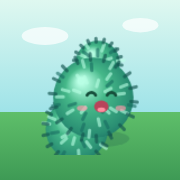
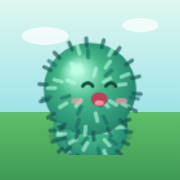
Add files via upload

Changed region(s): [[0.1944, 0.1944, 0.8056, 0.8611]]

diff --git a/index.html b/index.html
@@ -70,9 +70,17 @@ html,body{-webkit-user-select:none;user-select:none;-webkit-touch-callout:none;-
 .cbest{font-size:11.5px;color:var(--sub)}
 
 /* play */
-#s-play .bar{margin-bottom:6px}
-#p-name{font-size:18px}
-#stage .nc-body{padding:0}
+#s-play:not([hidden]){position:fixed;inset:0;z-index:20;display:flex;flex-direction:column;background:#173A3A;padding:env(safe-area-inset-top) env(safe-area-inset-right) 0 env(safe-area-inset-left)}
+#s-play .bar{display:none}
+#stage{flex:1;min-height:0;display:flex;flex-direction:column;background:#173A3A}
+#stage>*{flex:1;min-height:0;display:flex;flex-direction:column;background:transparent}
+#stage .nc-body{flex:1;min-height:0;width:100%;max-width:none;padding:0;gap:0}
+#stage .nc-view{flex:1;min-height:0;display:flex;align-items:center;justify-content:center;border:0;border-radius:0;box-shadow:none;background:#173A3A}
+#stage .nc-cv{flex:none;max-width:100%;max-height:100%}
+#stage .nc-keys{flex:none;max-width:none;margin:0;padding:12px max(14px,env(safe-area-inset-right)) calc(12px + env(safe-area-inset-bottom)) max(14px,env(safe-area-inset-left));background:#21504a}
+#stage .nc-keys>div{display:flex;gap:12px;align-items:center}
+#stage .nc-keys .nc-mini{min-width:76px;min-height:68px;font-size:26px}
+#stage .nc-keys .nc-jump{min-width:120px;font-size:20px}
 .result{position:fixed;inset:0;background:rgba(12,40,40,.55);display:grid;place-items:center;padding:16px;z-index:50}
 .result[hidden]{display:none}
 .rcard{background:#fff;border-radius:24px;padding:22px;width:min(100%,460px);max-height:92vh;overflow:auto;text-align:center;box-shadow:0 20px 50px #0b2f2a55}
@@ -155,14 +163,13 @@ html,body{-webkit-user-select:none;user-select:none;-webkit-touch-callout:none;-
           <span class="chip">💧 しずく貯金 <b id="t-bank"></b></span>
           <span class="chip">★ <b id="t-stars"></b></span>
           <span class="chip">🌈 図鑑 <b id="t-dex"></b></span>
-          <button type="button" class="chip" id="b-snd" style="border:0;cursor:pointer"></button>
         </div>
       </div>
       <div id="t-hero"></div>
     </div>
     <div class="menu">
       <button type="button" class="go" id="b-play"><b>ぼうけんへ</b><span>5つのワールド・50コース</span></button>
-      <button type="button" id="b-dex"><b>虹まりも図鑑</b><span>変身した虹まりもが棚に並ぶ</span></button>
+      <button type="button" id="b-dex"><b>図鑑</b><span>虹まりもと敵キャラが棚に並ぶ</span></button>
       <button type="button" id="b-shop"><b>ごほうび屋</b><span>しずくで色や強化と交換</span></button>
     </div>
   </section>
@@ -236,6 +243,11 @@ var APP_CSS = `
 .nc-edit .nc-cv{max-width:none}
 .nc-ov{position:absolute;inset:0;display:flex;flex-direction:column;align-items:center;justify-content:center;gap:8px;text-align:center;padding:16px;background:linear-gradient(180deg,#0c3b3b45,#092d345e);color:#fff}
 .nc-ov[hidden]{display:none}
+.nc-pz{position:absolute;top:10px;right:10px;z-index:3;width:44px;height:44px;border:0;border-radius:50%;background:rgba(255,255,255,.82);color:#24694e;font-weight:900;font-size:16px;box-shadow:0 3px 0 #0002;touch-action:none}
+.nc-pzp{position:absolute;inset:0;z-index:4;display:grid;place-items:center;background:rgba(10,40,40,.55)}
+.nc-pzp[hidden]{display:none}
+.nc-pzin{display:flex;flex-direction:column;gap:10px;background:#fff;border-radius:20px;padding:18px 22px;min-width:220px;text-align:center;box-shadow:0 14px 30px #0004}
+.nc-pzin b{font-size:20px;color:#1b6349}
 .nc-ov h2{font-size:clamp(22px,5.5vw,40px);line-height:1.2;margin:0;text-shadow:0 3px 10px #073b35}
 .nc-ov p{max-width:460px;margin:0 0 8px;font-weight:600;line-height:1.65;text-shadow:0 2px 5px #073b35}
 .nc-btn{font:inherit;font-weight:750;font-size:18px;background:var(--a);color:var(--on);border:0;border-radius:13px;padding:12px 28px;cursor:pointer;box-shadow:0 4px 0 rgba(0,0,0,.28)}
@@ -264,8 +276,8 @@ function game(cfg, root, opts){
   if(cfg.name&&!opts.bare&&!edit){var tt=h('div','nc-title'),tw=h('div',null,cfg.name);tt.appendChild(h('i','nc-mark'));tw.appendChild(h('small',null,'まりもメーカーで作ったコース'));tt.appendChild(tw);root.appendChild(tt)}
   var body=h('div','nc-body');root.appendChild(body);
   var S=Math.min(2,window.devicePixelRatio||1),T=Math.round(32*S),u=T/32;
-  var VW=edit?W:Math.min(W,Math.max(9,Math.min(20,Math.round((body.clientWidth||384)/42))));
-  var VH=opts.app?Math.min(H,12):H,BO=opts.boost||{},SKIN=opts.skin||null;
+  var VW=edit?W:opts.app?Math.min(W,Math.max(9,Math.min(20,Math.round((window.innerWidth||390)/Math.max(200,(window.innerHeight||700)-100)*12)))):Math.min(W,Math.max(9,Math.min(20,Math.round((body.clientWidth||384)/42))));
+  var VH=opts.app?Math.min(H,Math.max(12,Math.round(VW*Math.max(200,(window.innerHeight||700)-100)/(window.innerWidth||390)))):H,BO=opts.boost||{},SKIN=opts.skin||null;
 
   /* HUD */
   var hud=h('div','nc-hud');
@@ -304,6 +316,15 @@ function game(cfg, root, opts){
   var ov=h('div','nc-ov'),ovT=h('h2'),ovP=h('p'),ovB=h('button','nc-btn','冒険スタート');ovB.type='button';
   ov.appendChild(ovT);ov.appendChild(ovP);ov.appendChild(ovB);
   view.appendChild(cv);if(!edit)view.appendChild(ov);
+  var pzB=null,pzP=null,paused=false;
+  if(opts.app){pzB=h('button','nc-pz','Ⅱ');pzB.type='button';pzB.setAttribute('aria-label','ポーズ');view.appendChild(pzB);
+    pzP=h('div','nc-pzp');pzP.hidden=true;var pzIn=h('div','nc-pzin');pzIn.appendChild(h('b',null,'ポーズ'));
+    [['つづける',function(){resume()}],['やりなおす',function(){pzP.hidden=true;paused=false;go()}],['コースをえらぶ',function(){pzP.hidden=true;paused=false;if(opts.onQuit)opts.onQuit()}]].forEach(function(q){var b=h('button','nc-btn',q[0]);b.type='button';b.onclick=q[1];pzIn.appendChild(b)});
+    pzP.appendChild(pzIn);view.appendChild(pzP);
+    pzB.onpointerdown=function(e){e.preventDefault();e.stopPropagation();if(state!=='play')return;paused=true;state='pause';L=R=J=false;pzP.hidden=false}}
+  function resume(){if(!paused)return;paused=false;pzP.hidden=true;state='play';last=performance.now();acc=0;requestAnimationFrame(frame);nextT=0;bgmPump()}
+  function fitView(){if(!opts.app||!alive)return;var aw=view.clientWidth,ah=view.clientHeight;if(!aw||!ah)return;var k=Math.min(aw/cv.width,ah/cv.height);cv.style.width=Math.floor(cv.width*k)+'px';cv.style.height=Math.floor(cv.height*k)+'px'}
+  if(opts.app){window.addEventListener('resize',fitView);requestAnimationFrame(function(){fitView();requestAnimationFrame(fitView)})}
 
   var kamiT=0,kamiOn=false,bossIntro=0,camY=0,shots=[],goals=[],hs=null,hurtT=0,tf=null,frz=null,tstop=0,balls=[],stars=[],mg=[],trail=[],shake=0;
   var grid,pl,st0,en,fx,sp,score,lives,coins,coinsAll,left,sec,miss,state,hasGoal,cam,inv,flash,tacc,acc,last,pj,hudS='',best=0,el=0;
@@ -337,8 +358,8 @@ function game(cfg, root, opts){
   function cue(n){var c=CUES[n],d=0;c[1].forEach(function(nt){tone(nt[0],nt[1]+.03,c[0],.07,d);d+=nt[1]})}
   function fanfare(){var d=0;GOAL.forEach(function(nt){tone(nt[0],nt[1]+.05,'sine',.07,d);tone(nt[0]*.75,nt[1]+.05,'triangle',.04,d);d+=nt[1]})}
   var mute=false,AC=null,bgT=0,bi=0,MEL=[523.25,659.25,783.99,659.25,587.33,659.25,523.25,392,440,523.25,659.25,523.25,440,392,329.63,392];
-  try{mute=localStorage.getItem('marimo-mute')==='1'}catch(e){}
-  function aud(){if(edit)return;try{if(navigator.audioSession)navigator.audioSession.type='playback'}catch(e){}try{AC=window.__mmAC||(window.__mmAC=new(window.AudioContext||window.webkitAudioContext)());if(AC.state==='suspended')AC.resume()}catch(e){AC=null}}
+  if(!opts.app)try{mute=localStorage.getItem('marimo-mute')==='1'}catch(e){}
+  function aud(){if(edit)return;try{if(navigator.audioSession)navigator.audioSession.type='ambient'}catch(e){}try{AC=window.__mmAC||(window.__mmAC=new(window.AudioContext||window.webkitAudioContext)());if(AC.state==='suspended')AC.resume()}catch(e){AC=null}}
   function tone(f,d,w,v,dl){if(mute||!AC||!alive)return;try{var t0=AC.currentTime+(dl||0),o=AC.createOscillator(),g=AC.createGain();o.type=w||'sine';o.frequency.value=f;
     g.gain.setValueAtTime(.0001,t0);g.gain.exponentialRampToValueAtTime(v||.07,t0+.02);g.gain.exponentialRampToValueAtTime(.0001,t0+d);o.connect(g);g.connect(AC.destination);o.start(t0);o.stop(t0+d+.03)}catch(e){}}
   var nextT=0;
@@ -955,7 +976,8 @@ function game(cfg, root, opts){
     if(!(inv>0&&!frz&&Math.floor(inv*12)%2))hero();
     if(hs)scissors();
     cx.restore();
-    if(!edit&&cfg.name){cx.font='bold '+Math.round(14*u)+'px system-ui,sans-serif';var tw=cx.measureText(cfg.name+'  ✦').width,gg=cx.createLinearGradient(12*u,0,tw+60*u,0);
+    if(opts.app&&!edit){var hs3='ステージ'+(cfg.name||'').split(' ')[0]+'    ❤'+lives+'  💧'+(coinsAll-coins)+'/'+coinsAll;cx.font='bold '+Math.round(15*u)+'px system-ui,sans-serif';var hw=cx.measureText(hs3).width;rr(10*u,10*u,hw+28*u,32*u,16*u,'rgba(255,255,255,.82)');cx.fillStyle='#24694e';cx.textAlign='left';cx.textBaseline='middle';cx.fillText(hs3,24*u,26.5*u)}
+    else if(!edit&&cfg.name){cx.font='bold '+Math.round(14*u)+'px system-ui,sans-serif';var tw=cx.measureText(cfg.name+'  ✦').width,gg=cx.createLinearGradient(12*u,0,tw+60*u,0);
       gg.addColorStop(0,'#ffffffc9');gg.addColorStop(1,'#ffffff00');rr(12*u,10*u,tw+56*u,34*u,14*u,gg);cx.fillStyle='#24694e';cx.textAlign='left';cx.textBaseline='alphabetic';cx.fillText(cfg.name+'  ✦',24*u,32*u)}
     if(bossIntro>0){var bk=Math.min(1,(2.4-bossIntro)*4),bb2=en.filter(function(q){return q.boss})[0];cx.save();cx.globalAlpha=Math.min(1,bossIntro*2);cx.fillStyle='rgba(10,20,40,.55)';cx.fillRect(0,chh*.32,cw,chh*.36);
       cx.font='900 '+Math.round(44*u*bk)+'px system-ui,sans-serif';cx.textAlign='center';cx.textBaseline='middle';cx.lineWidth=8*u;cx.strokeStyle='#fff';cx.strokeText('ボス出現ッ!!',cw/2+(Math.random()-.5)*6*u,chh*.46);cx.fillStyle='#e8404a';cx.fillText('ボス出現ッ!!',cw/2,chh*.46);
@@ -994,9 +1016,9 @@ function game(cfg, root, opts){
   else{
     var keys=h('div','nc-keys'),g1=h('div'),g2=h('div');
     g1.appendChild(hold('◀','左へ','',function(v){L=v}));g1.appendChild(hold('▶','右へ','',function(v){R=v}));
-    g2.appendChild(kb);g2.appendChild(hold('ジャンプ! ↑','ジャンプ',' nc-jump',function(v){J=v}));keys.appendChild(g1);keys.appendChild(g2);
-    body.appendChild(hud);body.appendChild(view);body.appendChild(keys);
-    body.appendChild(h('p','nc-how','◀ ▶ で移動、ジャンプで段差をこえよう(キーボードは ← → と スペース、変身中のボタンは X)。光るまりもでくっついて大きくなり、+3でバウンド、+5でスーパーボール(ボスを連続でふめる)、+8〜10でハイパーバウンド(ボスに2倍ダメージ)。+8になるとハサミが追いかけてくる。くるくる回ったら突進の合図、赤い線からにげよう。切られるとまりもが半分に。虹色のまりもを取ると20種類のどれかに変身! 変身中にダメージを受けると元にもどります。'));
+    g2.appendChild(kb);g2.appendChild(hold(opts.app?'ジャンプ':'ジャンプ! ↑','ジャンプ',' nc-jump',function(v){J=v}));keys.appendChild(g1);keys.appendChild(g2);
+    if(!opts.app)body.appendChild(hud);body.appendChild(view);body.appendChild(keys);
+    if(!opts.app)body.appendChild(h('p','nc-how','◀ ▶ で移動、ジャンプで段差をこえよう(キーボードは ← → と スペース、変身中のボタンは X)。光るまりもでくっついて大きくなり、+3でバウンド、+5でスーパーボール(ボスを連続でふめる)、+8〜10でハイパーバウンド(ボスに2倍ダメージ)。+8になるとハサミが追いかけてくる。くるくる回ったら突進の合図、赤い線からにげよう。切られるとまりもが半分に。虹色のまりもを取ると20種類のどれかに変身! 変身中にダメージを受けると元にもどります。'));
     document.addEventListener('keydown',onKey);document.addEventListener('keyup',onUp);
     view.addEventListener('pointerdown',function(){if(AC&&AC.state!=='running')try{AC.resume()}catch(e){}});keys.addEventListener('pointerdown',function(){if(!AC)aud();else if(AC.state!=='running')try{AC.resume()}catch(e){}});
   }
@@ -1038,7 +1060,7 @@ function game(cfg, root, opts){
     PF=null;return {cv:cv,destroy:function(){}}}
   reset();if(opts.app)go();
   if(opts.probe)opts.probe(function(){return{camY:camY,KD:KD,mk:mkEnemy,shots:shots,pl:pl,en:en,grid:grid,state:state,score:score,lives:lives,hs:hs,tf:tf,frz:frz,tstop:tstop,balls:balls,apply:function(id){applyTf(id)},skill:skill,TFS:TFS}});
-  return {cv:cv,redraw:reset,destroy:function(){alive=false;state='off';clearTimeout(bgT);document.removeEventListener('keydown',onKey);document.removeEventListener('keyup',onUp)}};
+  return {cv:cv,redraw:reset,destroy:function(){alive=false;state='off';window.removeEventListener('resize',fitView);clearTimeout(bgT);document.removeEventListener('keydown',onKey);document.removeEventListener('keyup',onUp)}};
 }
 
 
@@ -1162,15 +1184,14 @@ function portrait(box,o){var d=el('div');box.appendChild(d);game({w:4,h:4,map:[]
 /* ---------- title music (design data: home theme) ---------- */
 var HOME=[[523.25,.28],[659.25,.28],[783.99,.42],[659.25,.28],[587.33,.28],[659.25,.28],[523.25,.42],[392,.42],[440,.28],[523.25,.28],[659.25,.42],[587.33,.28],[523.25,.28],[440,.42],[392,.56]];
 var HM={on:false,t:0,i:0};
-function hmMuted(){try{return localStorage.getItem('marimo-mute')==='1'}catch(e){return false}}
-function hmCtx(){try{if(navigator.audioSession)navigator.audioSession.type='playback'}catch(e){}try{var a=window.__mmAC||(window.__mmAC=new(window.AudioContext||window.webkitAudioContext)());if(a.state==='suspended')a.resume();return a}catch(e){return null}}
+function hmMuted(){return false}
+function hmCtx(){try{if(navigator.audioSession)navigator.audioSession.type='ambient'}catch(e){}try{var a=window.__mmAC||(window.__mmAC=new(window.AudioContext||window.webkitAudioContext)());if(a.state==='suspended')a.resume();return a}catch(e){return null}}
 function hmTone(a,f,d,w,v,at){var o=a.createOscillator(),g=a.createGain();o.type=w;o.frequency.value=f;g.gain.setValueAtTime(.0001,at);g.gain.exponentialRampToValueAtTime(v,at+.02);g.gain.exponentialRampToValueAtTime(.0001,at+d);o.connect(g);g.connect(a.destination);o.start(at);o.stop(at+d+.03)}
 function hmPump(){if(!HM.on)return;var a=window.__mmAC;if(a&&!hmMuted()&&$('s-play').hidden){var now=a.currentTime;if(HM.t<now)HM.t=now+.05;
   while(HM.t<now+.4){var n=HOME[HM.i%HOME.length];try{hmTone(a,n[0],n[1]*.9+.05,'sine',.03,HM.t);if(HM.i%2===0)hmTone(a,n[0]*.75,n[1]*1.4,'triangle',.022,HM.t)}catch(e){}HM.i++;HM.t+=n[1]*1.1}}
   requestAnimationFrame(hmPump)}
 function hmStart(){if(HM.on)return;if(!hmCtx())return;HM.on=true;HM.t=0;requestAnimationFrame(hmPump)}
 document.addEventListener('pointerdown',function(){if(!hmMuted())hmStart();else hmCtx()},{passive:true});
-function sndLabel(){$('b-snd').textContent=hmMuted()?'♪ 音 OFF':'♪ 音 ON'}
 
 /* ---------- screens ---------- */
 var CUR=-1,WSEL=0,RUN=null;
@@ -1305,7 +1326,6 @@ function boot(){
   document.querySelectorAll('.back').forEach(function(b){b.onclick=function(){show('s-title');drawTitle()}});
   $('p-back').onclick=function(){show('s-map');drawMap()};
   $('d-close').onclick=function(){$('d-detail').hidden=true};
-  $('b-snd').onclick=function(){var m=!hmMuted();try{localStorage.setItem('marimo-mute',m?'1':'0')}catch(e){}sndLabel();if(!m)hmStart()};sndLabel();
   drawTitle();
 }
 boot();

diff --git a/sw.js b/sw.js
@@ -1,5 +1,5 @@
 // offline support: newest version when online, saved copy when offline
-var C='marimo-'+"824af213";
+var C='marimo-'+"d37fe91a";
 var FILES=['./','index.html','manifest.webmanifest','icon-180.png','icon-192.png','icon-512.png'];
 self.addEventListener('install',function(e){self.skipWaiting();e.waitUntil(caches.open(C).then(function(c){return c.addAll(FILES)}))});
 self.addEventListener('activate',function(e){e.waitUntil(caches.keys().then(function(ks){return Promise.all(ks.filter(function(k){return k!==C}).map(function(k){return caches.delete(k)}))}).then(function(){return self.clients.claim()}))});
